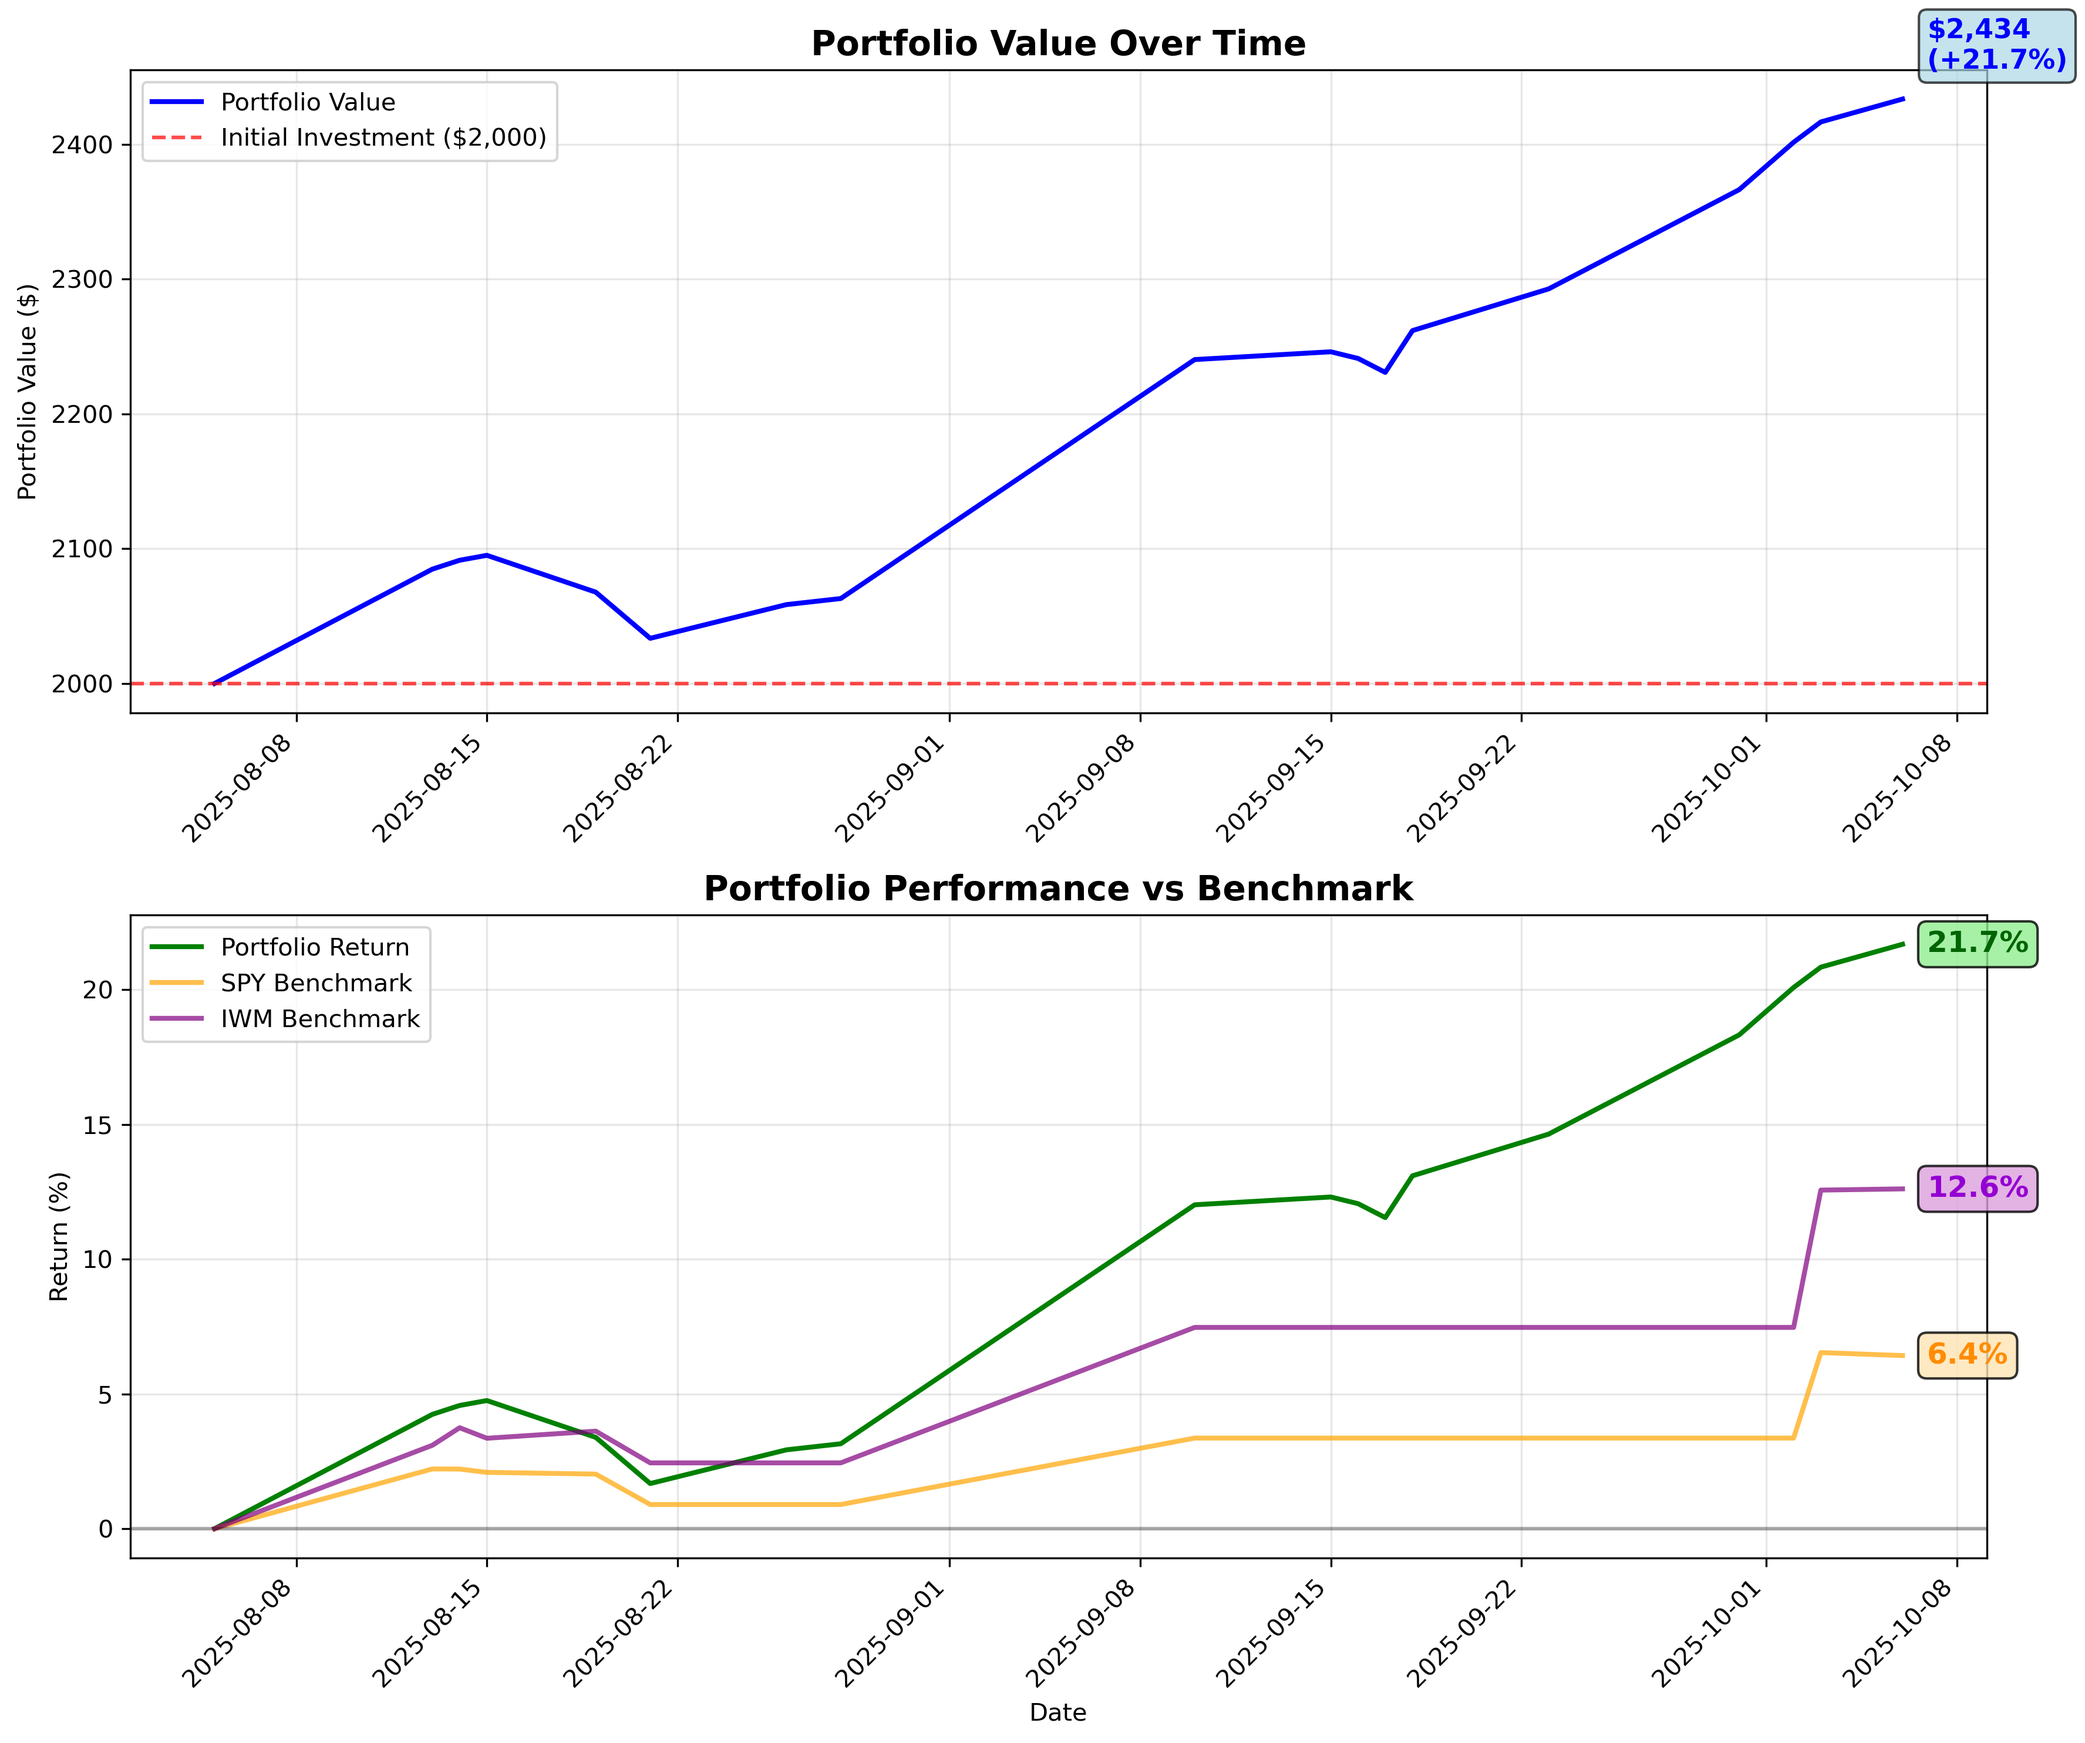
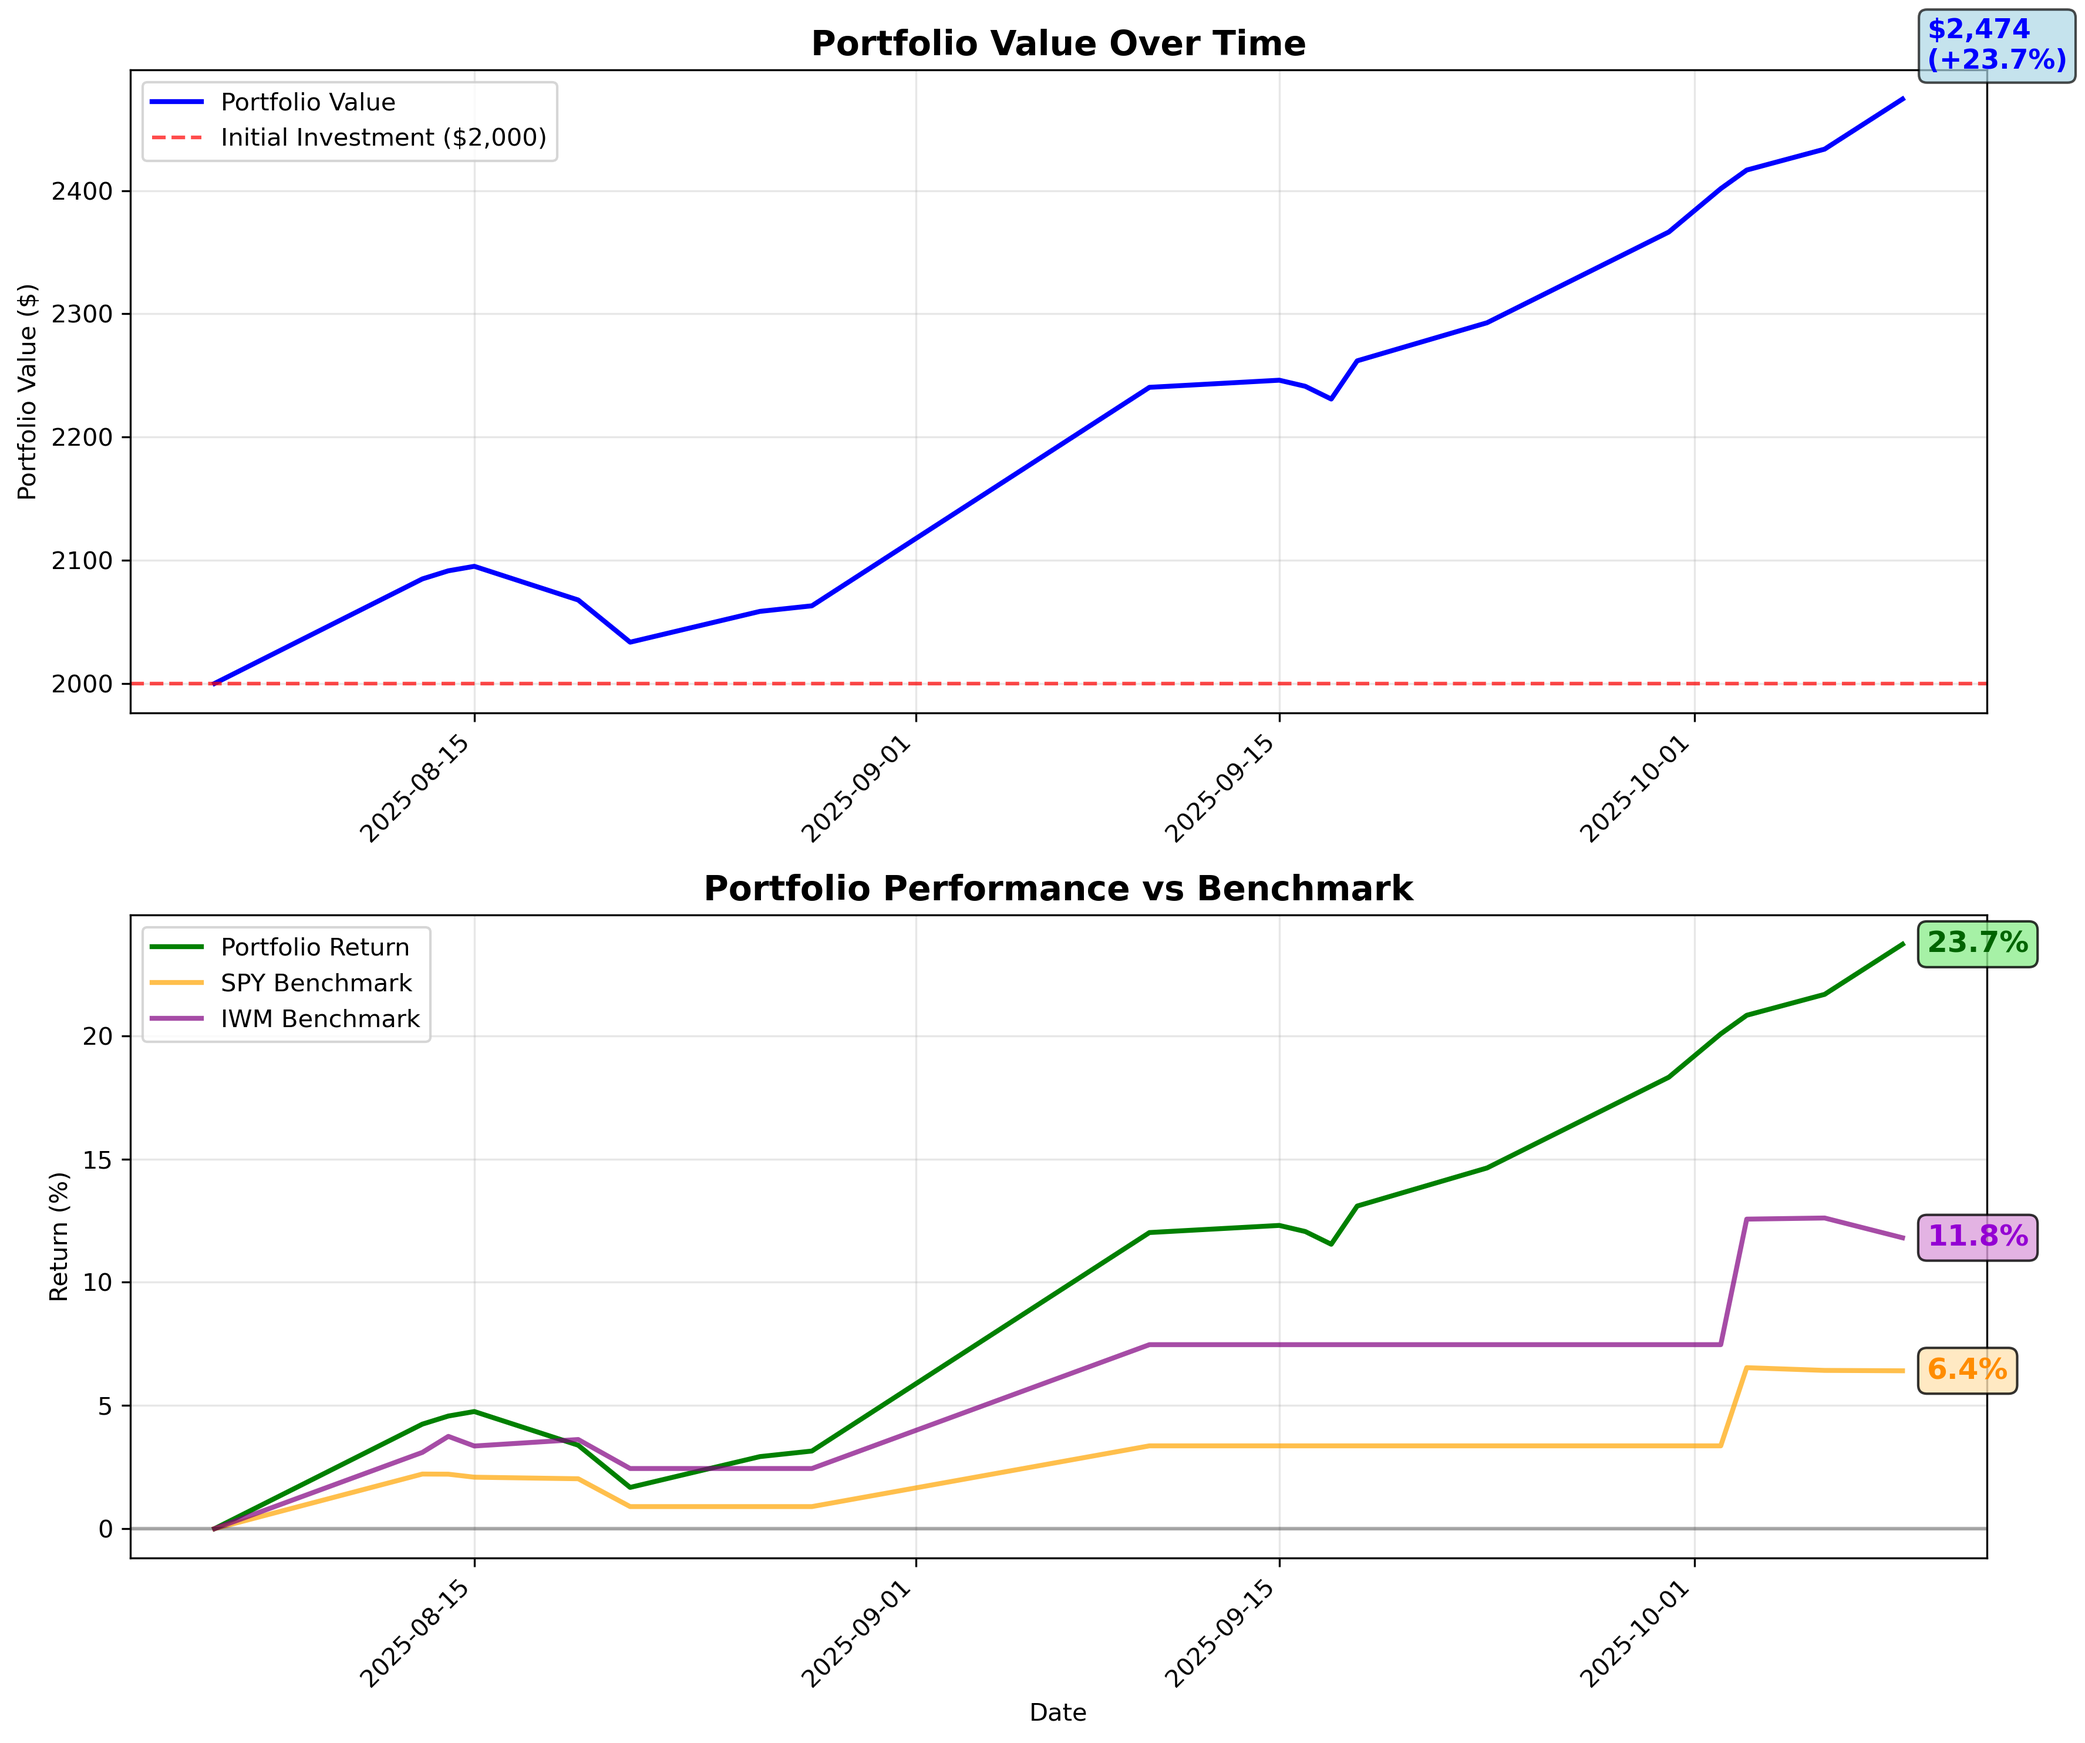
Fresh run

diff --git a/Trading/LLM Managed Portfolio/daily_portfolio_analysis.md b/Trading/LLM Managed Portfolio/daily_portfolio_analysis.md
@@ -1,70 +1,70 @@
-# Daily Portfolio Analysis - 2025-10-06
+# Daily Portfolio Analysis - 2025-10-09
 
 ## Executive Summary
-- **Total Portfolio Value**: $2,433.73
-- **Total P&L**: $+433.73 (+21.69%)
+- **Total Portfolio Value**: $2,474.40
+- **Total P&L**: $+474.40 (+23.72%)
 - **Cash Position**: $250.18
 - **Active Positions**: 8
 
 ## Benchmark Comparison
-- **Portfolio Return**: +21.7%
+- **Portfolio Return**: +23.7%
 - **SPY Benchmark**: +6.4%
-- **IWM Benchmark**: +12.6%
+- **IWM Benchmark**: +11.8%
 
 ## Position Analysis
 ### IONS
 - Shares: 1
-- Current Price: $69.16
-- P&L: $+27.09 (+64.37%)
-- Portfolio Weight: 2.8%
+- Current Price: $70.69
+- P&L: $+28.61 (+68.00%)
+- Portfolio Weight: 2.9%
 
 ### NVDA
 - Shares: 2
-- Current Price: $186.46
-- P&L: $+7.00 (+1.91%)
-- Portfolio Weight: 15.3%
+- Current Price: $194.25
+- P&L: $+22.57 (+6.17%)
+- Portfolio Weight: 15.7%
 
 ### GOOGL
 - Shares: 1
-- Current Price: $248.36
-- P&L: $+55.36 (+28.68%)
-- Portfolio Weight: 10.2%
+- Current Price: $241.43
+- P&L: $+48.43 (+25.09%)
+- Portfolio Weight: 9.8%
 
 ### XLV
 - Shares: 3
-- Current Price: $144.47
-- P&L: $+11.21 (+2.66%)
-- Portfolio Weight: 17.8%
+- Current Price: $144.64
+- P&L: $+11.71 (+2.77%)
+- Portfolio Weight: 17.5%
 
 ### CRNX
 - Shares: 5
-- Current Price: $42.04
-- P&L: $+23.88 (+12.82%)
-- Portfolio Weight: 8.6%
+- Current Price: $45.45
+- P&L: $+40.94 (+21.97%)
+- Portfolio Weight: 9.2%
 
 ### MRVL
 - Shares: 3
-- Current Price: $89.39
-- P&L: $+56.16 (+26.49%)
-- Portfolio Weight: 11.0%
+- Current Price: $91.85
+- P&L: $+63.52 (+29.96%)
+- Portfolio Weight: 11.1%
 
 ### RKLB
 - Shares: 1
-- Current Price: $57.37
-- P&L: $+9.72 (+20.39%)
-- Portfolio Weight: 2.4%
+- Current Price: $67.22
+- P&L: $+19.57 (+41.08%)
+- Portfolio Weight: 2.7%
 
 ### MSFT
 - Shares: 1
-- Current Price: $523.93
-- P&L: $+0.02 (+0.00%)
-- Portfolio Weight: 21.5%
+- Current Price: $519.67
+- P&L: $-4.24 (-0.81%)
+- Portfolio Weight: 21.0%
 
 ## Alerts & Recommendations
-- **HIGH**: IONS up +64.4% - consider taking profits
+- **HIGH**: IONS up +68.0% - consider taking profits
 
 ## Recent Performance Trend
 *Historical performance data will be populated as data accumulates*
 
 ---
-*Generated: 2025-10-06 12:39:45*
+*Generated: 2025-10-09 12:00:11*
